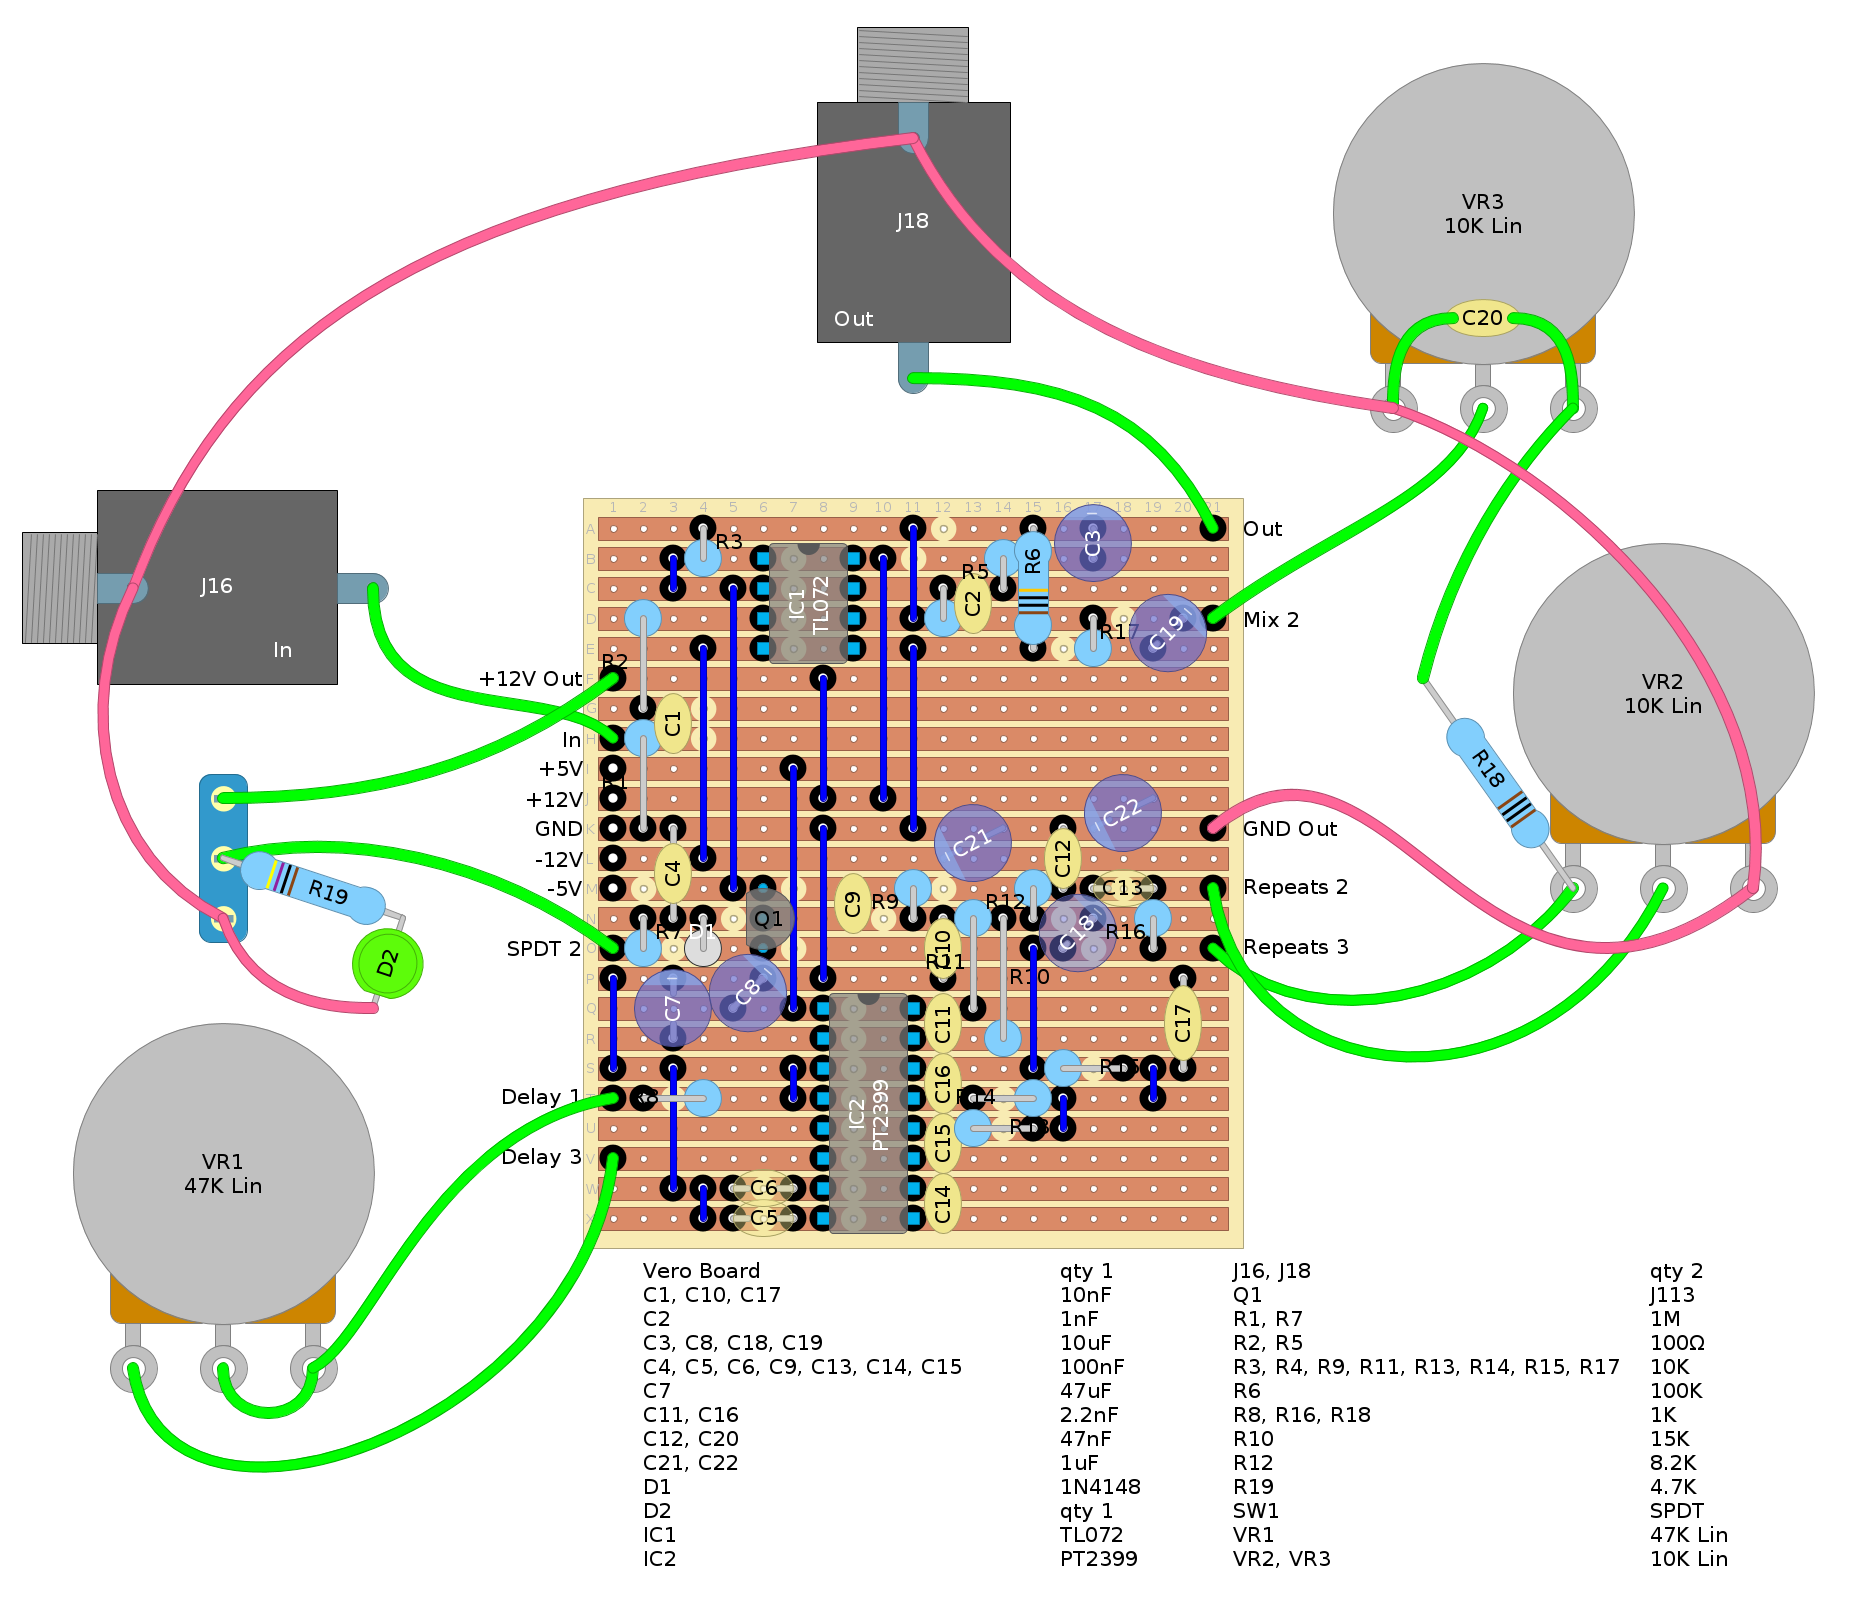
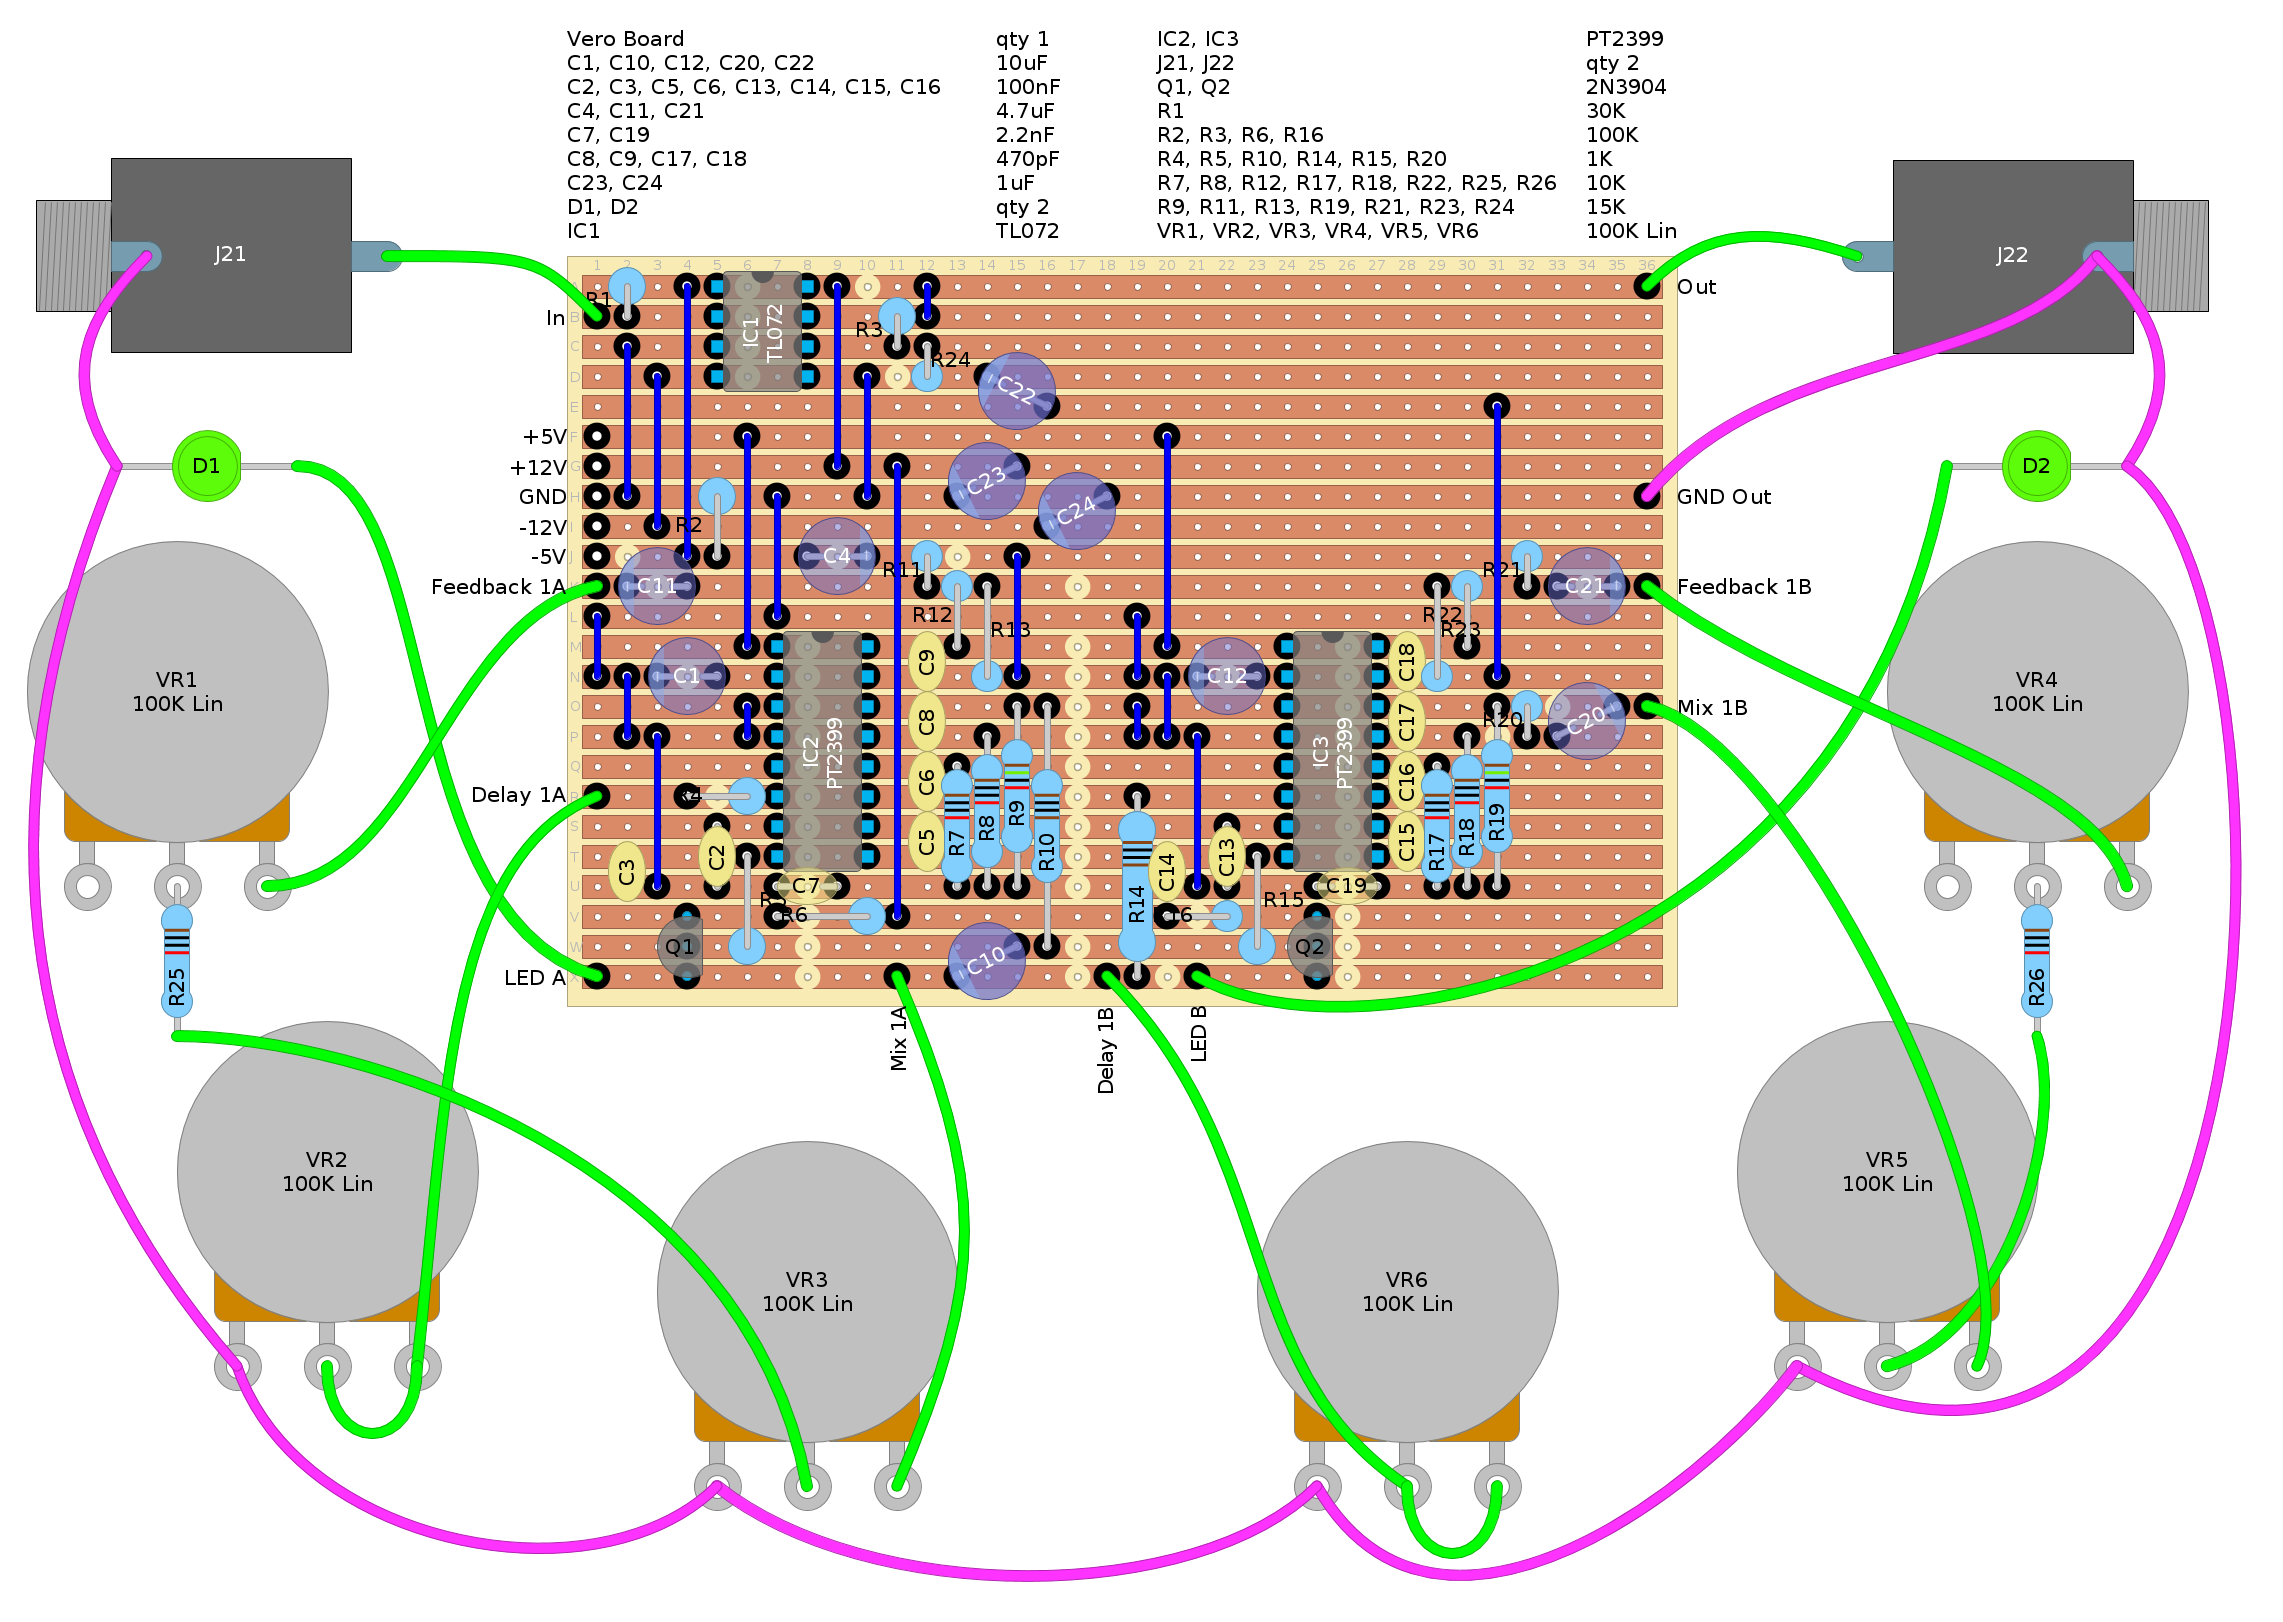
update delay

diff --git a/music/index.html b/music/index.html
@@ -173,9 +173,9 @@
             <div class="row">
             <div class="five columns">
                 <h4>Delay/Echo</h4>
-                <p>Straightforward delay/echo module built around the PT2399.</p>
+                <p>Two PT2399-based delay effects chained together with separate controls.</p>
                 <p>
-                    Original Sources: <a href="http://www.valvewizard.co.uk/smalltime.html" target="_blank">1</a>
+                    Original Sources: <a href="https://www.lookmumnocomputer.com/2399-triple-splashback" target="_blank">1</a>
                 </p>
             </div>
             <div class="seven columns">
